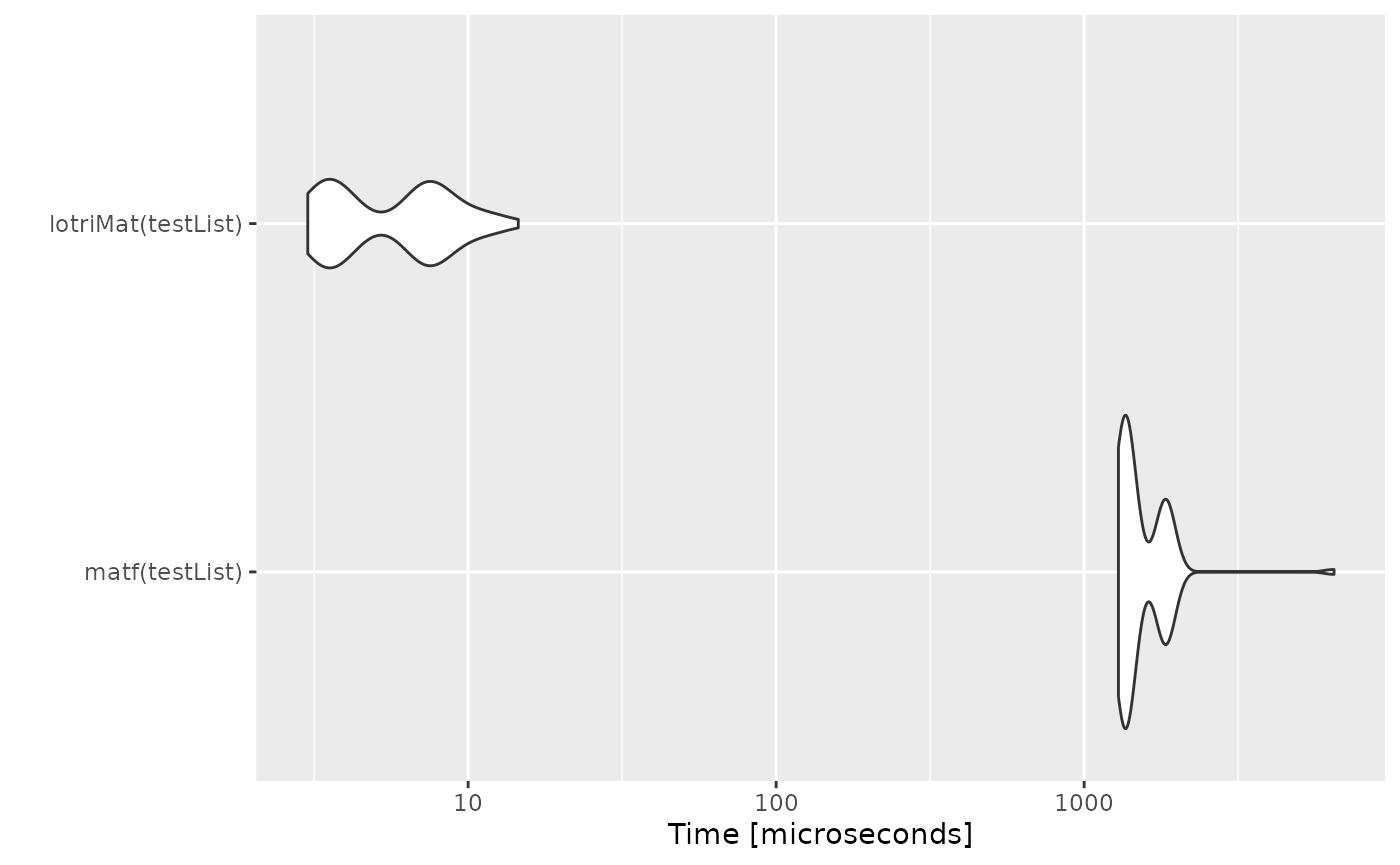
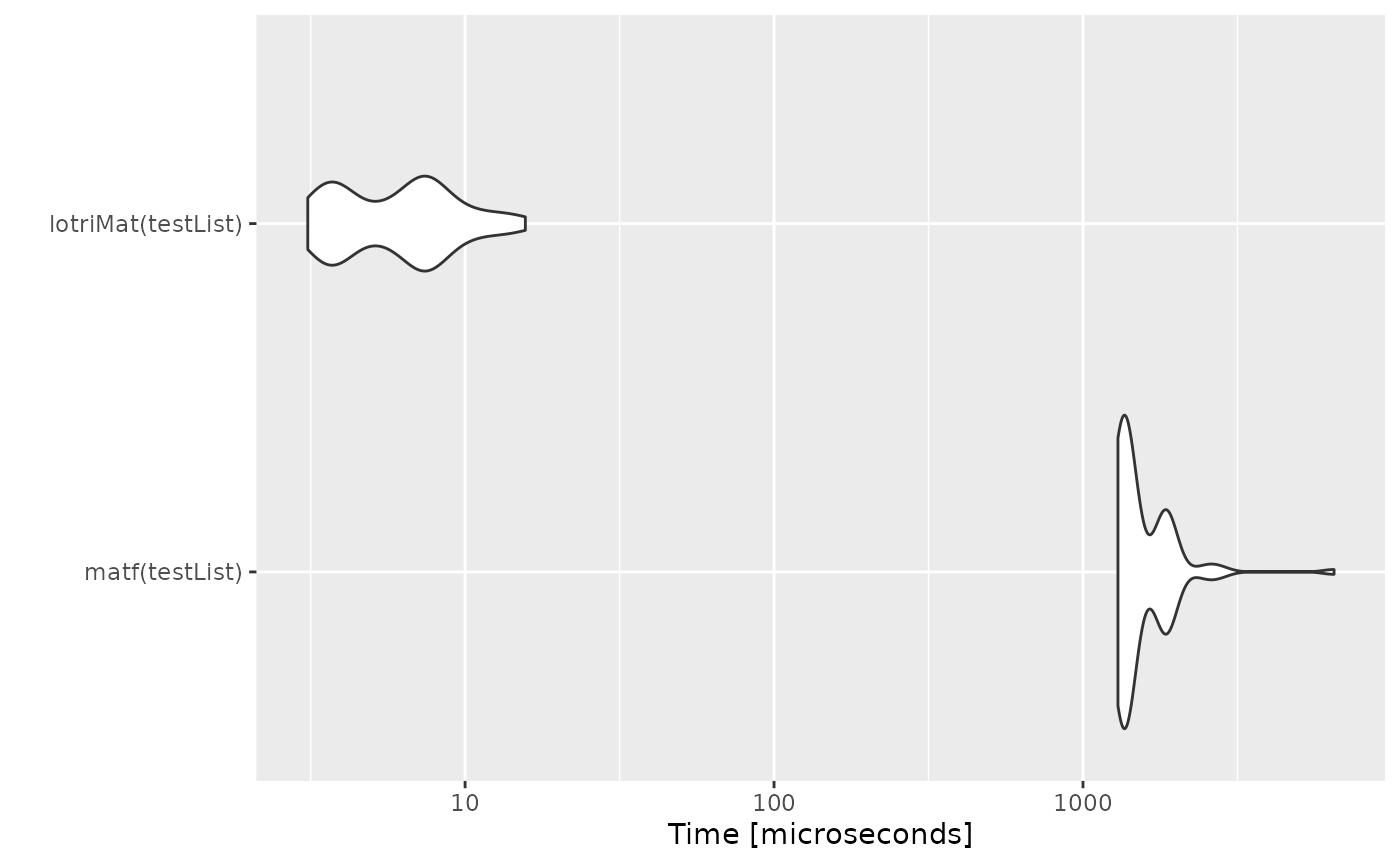
Deploying to gh-pages from @ nlmixr2/lotri@8b3ba5eecf86052c37a49c30a67d94320ff6866a 🚀

diff --git a/reference/dot-lotriPointers.html b/reference/dot-lotriPointers.html
@@ -7,7 +7,7 @@
 
     <a class="navbar-brand me-2" href="../index.html">lotri</a>
 
-    <small class="nav-text text-muted me-auto" data-bs-toggle="tooltip" data-bs-placement="bottom" title="">0.4.4.9000</small>
+    <small class="nav-text text-muted me-auto" data-bs-toggle="tooltip" data-bs-placement="bottom" title="">0.5.4.9000</small>
 
 
     <button class="navbar-toggler" type="button" data-bs-toggle="collapse" data-bs-target="#navbar" aria-controls="navbar" aria-expanded="false" aria-label="Toggle navigation">
@@ -59,25 +59,25 @@
     <div class="sourceCode"><pre class="sourceCode r"><code><span class="r-in"><span></span></span>
 <span class="r-in"><span><span class="fu">.lotriPointers</span><span class="op">(</span><span class="op">)</span></span></span>
 <span class="r-out co"><span class="r-pr">#&gt;</span> $lotriLstToMat</span>
-<span class="r-out co"><span class="r-pr">#&gt;</span> &lt;pointer: 0x7f418a223800&gt;</span>
+<span class="r-out co"><span class="r-pr">#&gt;</span> &lt;pointer: 0x7fd089ed1800&gt;</span>
 <span class="r-out co"><span class="r-pr">#&gt;</span> </span>
 <span class="r-out co"><span class="r-pr">#&gt;</span> $asLotriMat</span>
-<span class="r-out co"><span class="r-pr">#&gt;</span> &lt;pointer: 0x7f418a221a70&gt;</span>
+<span class="r-out co"><span class="r-pr">#&gt;</span> &lt;pointer: 0x7fd089ecfa70&gt;</span>
 <span class="r-out co"><span class="r-pr">#&gt;</span> </span>
 <span class="r-out co"><span class="r-pr">#&gt;</span> $lotriSep</span>
-<span class="r-out co"><span class="r-pr">#&gt;</span> &lt;pointer: 0x7f418a225800&gt;</span>
+<span class="r-out co"><span class="r-pr">#&gt;</span> &lt;pointer: 0x7fd089ed3800&gt;</span>
 <span class="r-out co"><span class="r-pr">#&gt;</span> </span>
 <span class="r-out co"><span class="r-pr">#&gt;</span> $lotriAllNames</span>
-<span class="r-out co"><span class="r-pr">#&gt;</span> &lt;pointer: 0x7f418a225dd0&gt;</span>
+<span class="r-out co"><span class="r-pr">#&gt;</span> &lt;pointer: 0x7fd089ed3dd0&gt;</span>
 <span class="r-out co"><span class="r-pr">#&gt;</span> </span>
 <span class="r-out co"><span class="r-pr">#&gt;</span> $lotriGetBounds</span>
-<span class="r-out co"><span class="r-pr">#&gt;</span> &lt;pointer: 0x7f418a222010&gt;</span>
+<span class="r-out co"><span class="r-pr">#&gt;</span> &lt;pointer: 0x7fd089ed0010&gt;</span>
 <span class="r-out co"><span class="r-pr">#&gt;</span> </span>
 <span class="r-out co"><span class="r-pr">#&gt;</span> $lotriMaxNu</span>
-<span class="r-out co"><span class="r-pr">#&gt;</span> &lt;pointer: 0x7f418a2252d0&gt;</span>
+<span class="r-out co"><span class="r-pr">#&gt;</span> &lt;pointer: 0x7fd089ed32d0&gt;</span>
 <span class="r-out co"><span class="r-pr">#&gt;</span> </span>
 <span class="r-out co"><span class="r-pr">#&gt;</span> $isLotri</span>
-<span class="r-out co"><span class="r-pr">#&gt;</span> &lt;pointer: 0x7f418a225cb0&gt;</span>
+<span class="r-out co"><span class="r-pr">#&gt;</span> &lt;pointer: 0x7fd089ed3cb0&gt;</span>
 <span class="r-out co"><span class="r-pr">#&gt;</span> </span>
 </code></pre></div>
     </div>

diff --git a/articles/lotri-motivation.html b/articles/lotri-motivation.html
@@ -26,7 +26,7 @@
 
     <a class="navbar-brand me-2" href="../index.html">lotri</a>
 
-    <small class="nav-text text-muted me-auto" data-bs-toggle="tooltip" data-bs-placement="bottom" title="">0.4.4.9000</small>
+    <small class="nav-text text-muted me-auto" data-bs-toggle="tooltip" data-bs-placement="bottom" title="">0.5.4.9000</small>
 
 
     <button class="navbar-toggler" type="button" data-bs-toggle="collapse" data-bs-target="#navbar" aria-controls="navbar" aria-expanded="false" aria-label="Toggle navigation">
@@ -228,9 +228,9 @@ concatenation with <code>lotriMat</code></p>
 <span></span>
 <span><span class="fu"><a href="https://rdrr.io/r/base/print.html" class="external-link">print</a></span><span class="op">(</span><span class="va">mb</span><span class="op">)</span></span>
 <span><span class="co">#&gt; Unit: microseconds</span></span>
-<span><span class="co">#&gt;                expr      min        lq       mean    median       uq      max</span></span>
-<span><span class="co">#&gt;      matf(testList) 1292.142 1343.6680 1557.72355 1389.1380 1824.360 6477.771</span></span>
-<span><span class="co">#&gt;  lotriMat(testList)    3.016    3.6065    6.10132    6.6225    7.855   14.547</span></span>
+<span><span class="co">#&gt;                expr      min       lq       mean    median       uq      max</span></span>
+<span><span class="co">#&gt;      matf(testList) 1297.838 1346.698 1593.99675 1388.9175 1837.823 6497.584</span></span>
+<span><span class="co">#&gt;  lotriMat(testList)    3.096    3.837    6.54106    6.7175    7.674   15.669</span></span>
 <span><span class="co">#&gt;  neval</span></span>
 <span><span class="co">#&gt;    100</span></span>
 <span><span class="co">#&gt;    100</span></span>

diff --git a/authors.html b/authors.html
@@ -7,7 +7,7 @@
 
     <a class="navbar-brand me-2" href="index.html">lotri</a>
 
-    <small class="nav-text text-muted me-auto" data-bs-toggle="tooltip" data-bs-placement="bottom" title="">0.4.4.9000</small>
+    <small class="nav-text text-muted me-auto" data-bs-toggle="tooltip" data-bs-placement="bottom" title="">0.5.4.9000</small>
 
 
     <button class="navbar-toggler" type="button" data-bs-toggle="collapse" data-bs-target="#navbar" aria-controls="navbar" aria-expanded="false" aria-label="Toggle navigation">
@@ -53,13 +53,13 @@
 
       <p>Fidler M (2024).
 <em>lotri: A Simple Way to Specify Symmetric, Block Diagonal Matrices</em>.
-R package version 0.4.4.9000, https://github.com/nlmixr2/lotri, <a href="https://nlmixr2.github.io/lotri/">https://nlmixr2.github.io/lotri/</a>.
+R package version 0.5.4.9000, https://github.com/nlmixr2/lotri, <a href="https://nlmixr2.github.io/lotri/">https://nlmixr2.github.io/lotri/</a>.
 </p>
       <pre>@Manual{,
   title = {lotri: A Simple Way to Specify Symmetric, Block Diagonal Matrices},
   author = {Matthew L. Fidler},
   year = {2024},
-  note = {R package version 0.4.4.9000, https://github.com/nlmixr2/lotri},
+  note = {R package version 0.5.4.9000, https://github.com/nlmixr2/lotri},
   url = {https://nlmixr2.github.io/lotri/},
 }</pre>
     </div>

diff --git a/reference/lotriMat.html b/reference/lotriMat.html
@@ -9,7 +9,7 @@ symmetric matrices."><meta property="og:image" content="https://nlmixr2.github.i
 
     <a class="navbar-brand me-2" href="../index.html">lotri</a>
 
-    <small class="nav-text text-muted me-auto" data-bs-toggle="tooltip" data-bs-placement="bottom" title="">0.4.4.9000</small>
+    <small class="nav-text text-muted me-auto" data-bs-toggle="tooltip" data-bs-placement="bottom" title="">0.5.4.9000</small>
 
 
     <button class="navbar-toggler" type="button" data-bs-toggle="collapse" data-bs-target="#navbar" aria-controls="navbar" aria-expanded="false" aria-label="Toggle navigation">

diff --git a/reference/lotriSep.html b/reference/lotriSep.html
@@ -9,7 +9,7 @@ not be useful for external function calls."><meta property="og:image" content="h
 
     <a class="navbar-brand me-2" href="../index.html">lotri</a>
 
-    <small class="nav-text text-muted me-auto" data-bs-toggle="tooltip" data-bs-placement="bottom" title="">0.4.4.9000</small>
+    <small class="nav-text text-muted me-auto" data-bs-toggle="tooltip" data-bs-placement="bottom" title="">0.5.4.9000</small>
 
 
     <button class="navbar-toggler" type="button" data-bs-toggle="collapse" data-bs-target="#navbar" aria-controls="navbar" aria-expanded="false" aria-label="Toggle navigation">

diff --git a/404.html b/404.html
@@ -27,7 +27,7 @@
 
     <a class="navbar-brand me-2" href="https://nlmixr2.github.io/lotri/index.html">lotri</a>
 
-    <small class="nav-text text-muted me-auto" data-bs-toggle="tooltip" data-bs-placement="bottom" title="">0.4.4.9000</small>
+    <small class="nav-text text-muted me-auto" data-bs-toggle="tooltip" data-bs-placement="bottom" title="">0.5.4.9000</small>
 
 
     <button class="navbar-toggler" type="button" data-bs-toggle="collapse" data-bs-target="#navbar" aria-controls="navbar" aria-expanded="false" aria-label="Toggle navigation">

diff --git a/articles/index.html b/articles/index.html
@@ -7,7 +7,7 @@
 
     <a class="navbar-brand me-2" href="../index.html">lotri</a>
 
-    <small class="nav-text text-muted me-auto" data-bs-toggle="tooltip" data-bs-placement="bottom" title="">0.4.4.9000</small>
+    <small class="nav-text text-muted me-auto" data-bs-toggle="tooltip" data-bs-placement="bottom" title="">0.5.4.9000</small>
 
 
     <button class="navbar-toggler" type="button" data-bs-toggle="collapse" data-bs-target="#navbar" aria-controls="navbar" aria-expanded="false" aria-label="Toggle navigation">

diff --git a/news/index.html b/news/index.html
@@ -7,7 +7,7 @@
 
     <a class="navbar-brand me-2" href="../index.html">lotri</a>
 
-    <small class="nav-text text-muted me-auto" data-bs-toggle="tooltip" data-bs-placement="bottom" title="">0.4.4.9000</small>
+    <small class="nav-text text-muted me-auto" data-bs-toggle="tooltip" data-bs-placement="bottom" title="">0.5.4.9000</small>
 
 
     <button class="navbar-toggler" type="button" data-bs-toggle="collapse" data-bs-target="#navbar" aria-controls="navbar" aria-expanded="false" aria-label="Toggle navigation">

diff --git a/reference/as.lotri.html b/reference/as.lotri.html
@@ -7,7 +7,7 @@
 
     <a class="navbar-brand me-2" href="../index.html">lotri</a>
 
-    <small class="nav-text text-muted me-auto" data-bs-toggle="tooltip" data-bs-placement="bottom" title="">0.4.4.9000</small>
+    <small class="nav-text text-muted me-auto" data-bs-toggle="tooltip" data-bs-placement="bottom" title="">0.5.4.9000</small>
 
 
     <button class="navbar-toggler" type="button" data-bs-toggle="collapse" data-bs-target="#navbar" aria-controls="navbar" aria-expanded="false" aria-label="Toggle navigation">

diff --git a/reference/index.html b/reference/index.html
@@ -7,7 +7,7 @@
 
     <a class="navbar-brand me-2" href="../index.html">lotri</a>
 
-    <small class="nav-text text-muted me-auto" data-bs-toggle="tooltip" data-bs-placement="bottom" title="">0.4.4.9000</small>
+    <small class="nav-text text-muted me-auto" data-bs-toggle="tooltip" data-bs-placement="bottom" title="">0.5.4.9000</small>
 
 
     <button class="navbar-toggler" type="button" data-bs-toggle="collapse" data-bs-target="#navbar" aria-controls="navbar" aria-expanded="false" aria-label="Toggle navigation">

diff --git a/reference/lotri.html b/reference/lotri.html
@@ -7,7 +7,7 @@
 
     <a class="navbar-brand me-2" href="../index.html">lotri</a>
 
-    <small class="nav-text text-muted me-auto" data-bs-toggle="tooltip" data-bs-placement="bottom" title="">0.4.4.9000</small>
+    <small class="nav-text text-muted me-auto" data-bs-toggle="tooltip" data-bs-placement="bottom" title="">0.5.4.9000</small>
 
 
     <button class="navbar-toggler" type="button" data-bs-toggle="collapse" data-bs-target="#navbar" aria-controls="navbar" aria-expanded="false" aria-label="Toggle navigation">

diff --git a/reference/lotriDataFrameToLotriExpression.html b/reference/lotriDataFrameToLotriExpression.html
@@ -7,7 +7,7 @@
 
     <a class="navbar-brand me-2" href="../index.html">lotri</a>
 
-    <small class="nav-text text-muted me-auto" data-bs-toggle="tooltip" data-bs-placement="bottom" title="">0.4.4.9000</small>
+    <small class="nav-text text-muted me-auto" data-bs-toggle="tooltip" data-bs-placement="bottom" title="">0.5.4.9000</small>
 
 
     <button class="navbar-toggler" type="button" data-bs-toggle="collapse" data-bs-target="#navbar" aria-controls="navbar" aria-expanded="false" aria-label="Toggle navigation">
